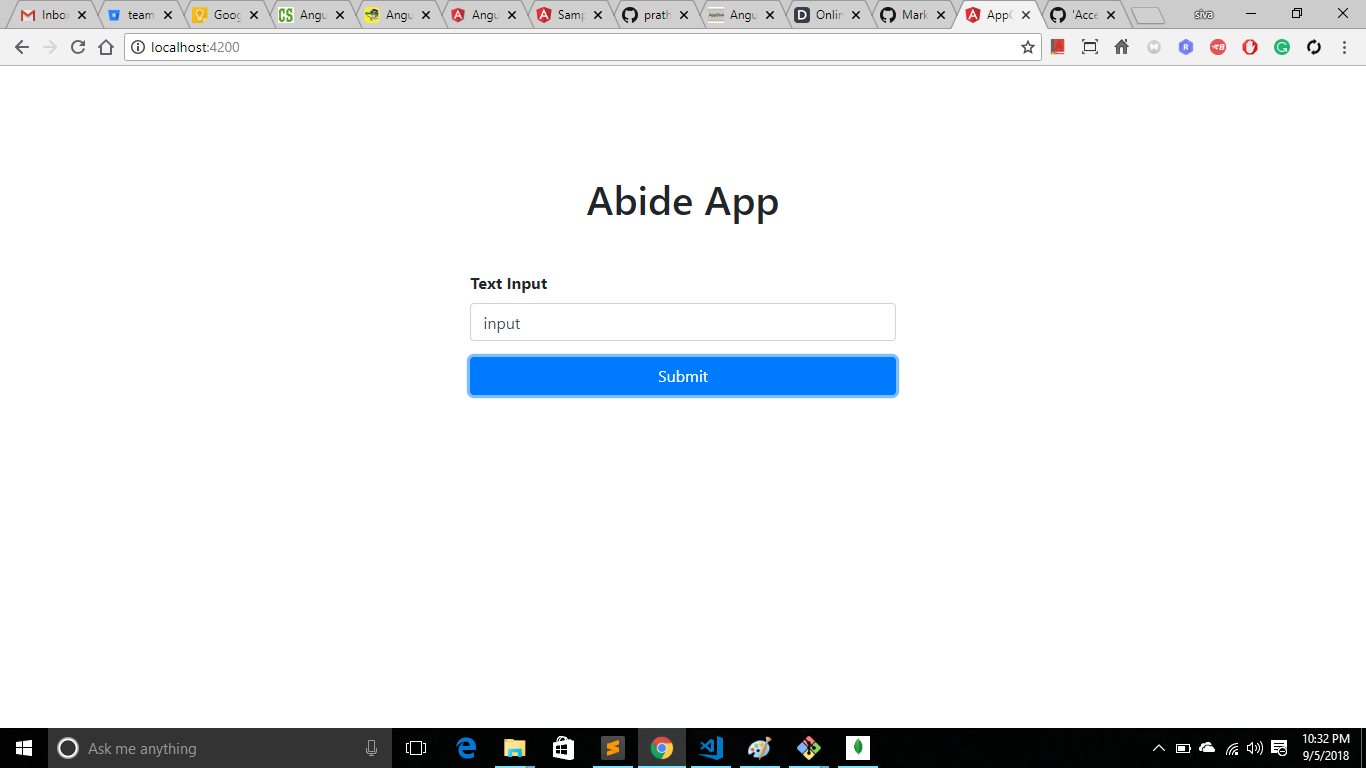
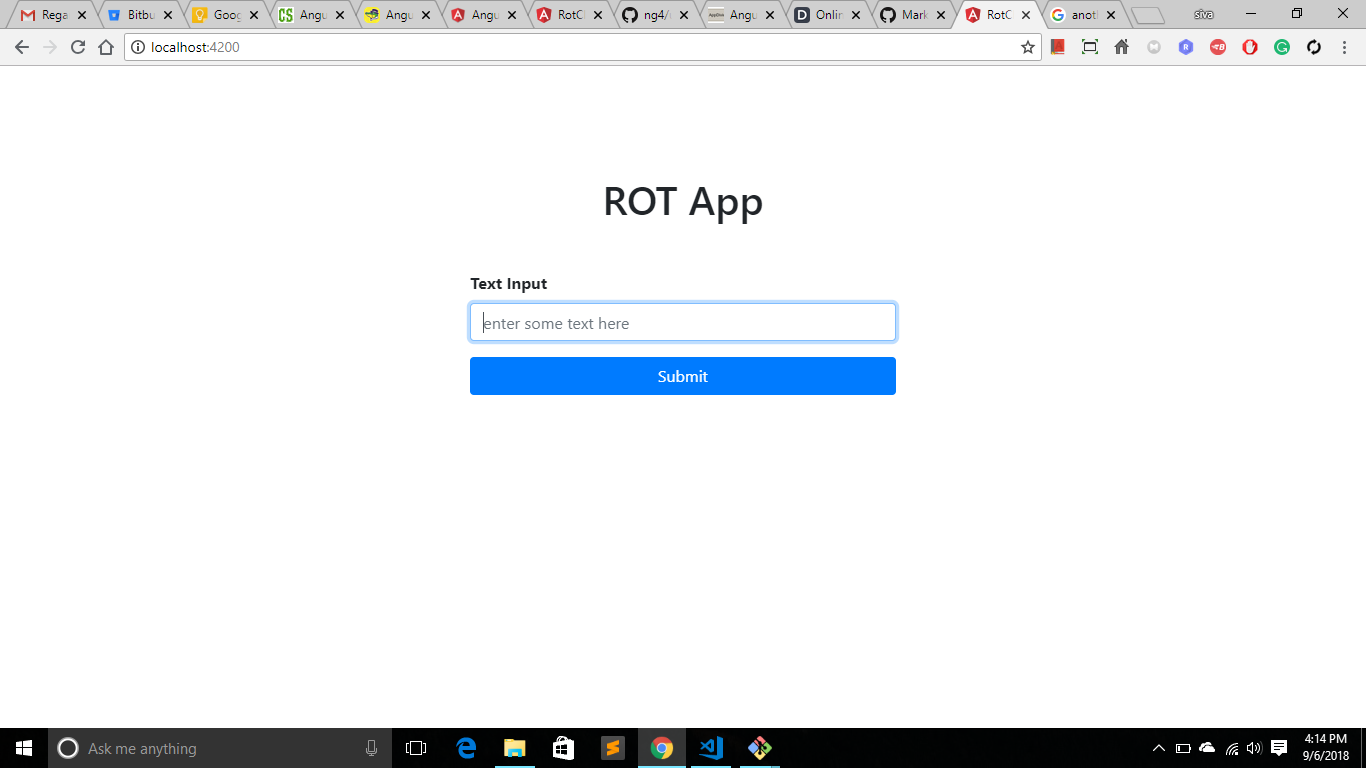
completed the ROT app successfully

diff --git a/app-server/index.js b/app-server/index.js
@@ -19,11 +19,11 @@ app.post('/input',(req,res)=>{
     const { text } = req.body;
     const data = new Data({text});
     data.save()
-    .then(data=>{
-        res.send(data);
+    .then(data => {
+        res.status(200).json({'adUnit': 'AdUnit in added successfully'});
     })
-    .catch(error=>{
-        res.send(error.message);
+    .catch(error => {
+        res.status(400).send("unable to save to database");
     })
 })
 //server starting here 

diff --git a/app-client-console/src/index.html b/app-client-console/src/index.html
@@ -2,7 +2,7 @@
 <html lang="en">
 <head>
   <meta charset="utf-8">
-  <title>AppClientConsole</title>
+  <title>RotClientConsole</title>
   <base href="/">
 
   <meta name="viewport" content="width=device-width, initial-scale=1">

diff --git a/app-client-console/src/app/input/input.component.html b/app-client-console/src/app/input/input.component.html
@@ -14,3 +14,4 @@
       </div>
     </div>
   </div>
+  

diff --git a/README.md b/README.md
@@ -10,6 +10,9 @@ When i get stuck
 - If not, I Google search for documentation, blog posts, or Stack Overflow posts that could help me get closer to the answer.
 - At this point, if I’m truly stuck, I will either post a question on Stack Overflow or ask a co-lead or developer I know.
 
+# architecture an app to deploy
+
+![alt text](https://github.com/prathap1041220272/abide-app/blob/master/images/architecture.png "Logo Title Text 1")
 ### Technologies used :-
  - Node JS  - server side
  - Mongo DB - Backend
@@ -77,4 +80,4 @@ Go to the browser and enter the url path or click here [https://localhost:4568](
 
 If it's success 
 
-![client side success](https://github.com/prathap1041220272/abide-app/blob/master/images/client_input.png "client side success")
+![client side success](https://github.com/prathap1041220272/abide-app/blob/master/images/client_input-success.png "client side success")
